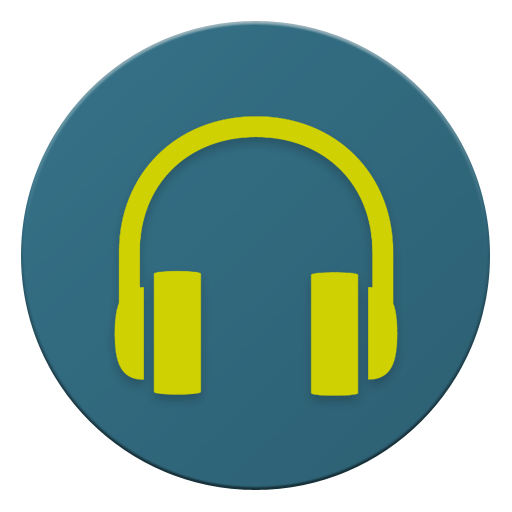
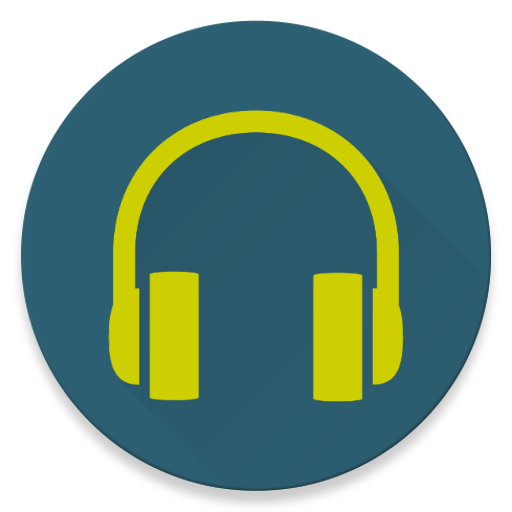
v0.192

diff --git a/androidapp/com.rejh.icerrr.itson/assets/www/index.html b/androidapp/com.rejh.icerrr.itson/assets/www/index.html
@@ -203,7 +203,7 @@
 <!-- Section -->
 <section id="channellist">
 	
-    <div class="actionbar shadow_z2">
+    <div class="actionbar">
     	
         <div class="icon_app  activatablel"><img src="img/icons-48/ic_arrow_back.png" onclick="site.lifecycle.onBackButton();" /></div>
         <div class="title">Stations</div>
@@ -217,7 +217,7 @@
         </div>
     </div>
     
-    <div class="tabbar shadow_z1">
+    <div class="tabbar shadow_z2">
     	<div class="tab activatablel stations active" onclick="site.chlist.ontabclick(this)">
         	<div class="center_table"><div class="center_td">All</div></div>
         </div>
@@ -278,7 +278,7 @@
 				<input class="round2" type="text" name="station_icon" placeholder="http://www.host.com/path-to-icon.png" />
 			</p>
 			
-			<p><img class="station_icon" src="img/icons-48/ic_launcher.png" /></p>
+			<p><img class="station_icon" src="img/icons-80/ic_station_default.png" /></p>
 			
 			<p class="info_tap_icon" style="color:#999;"><em>Note: tap the icon to search for more</em></p>
 		</div>
@@ -300,9 +300,11 @@
         <div class="title">Stations</div>
         
 		<div class="actions">
+			<!--
 			<div class="action save activatablel" onclick="site.chsearch.searchstation();">
 				<img src="img/icons-48/ic_search_green.png" title="Search" />
 			</div>
+			-->
         </div>
     </div>
     
@@ -333,6 +335,8 @@
 		<div class="resultfooter shadow_z1u">
 			<a href='javascript:void(0)' onclick="window.open('http://dirble.com/','_system');">Powered by Dirble</a>
 		</div>
+		
+		<div class="fab shadow_z5" onclick="site.chsearch.searchstation();;"><img src="img/icons-48/ic_search_green.png" /></div>
 	
     </div>
 

diff --git a/androidapp/com.rejh.icerrr.itson/assets/www/js/site.chlist.js b/androidapp/com.rejh.icerrr.itson/assets/www/js/site.chlist.js
@@ -217,7 +217,7 @@ site.chlist.drawResults = function(pagenum,forcerun) {
 		var resulticon = document.createElement("img");
 		resulticon.className = "resulticon";
 		resulticon.addEventListener("error",function(ev){ 
-			ev.target.src = "img/icons-48/ic_launcher.png";
+			ev.target.src = "img/icons-80/ic_station_default.png";
 		});
 		if (site.helpers.shouldDownloadImage(station.station_icon_local,station.station_icon)) {
 			var stationIndex = site.helpers.session.getStationIndexById(station.station_id);
@@ -236,7 +236,7 @@ site.chlist.drawResults = function(pagenum,forcerun) {
 				function(error) {
 					loggr.error(" > Error downloading '"+ station.station_icon +"'",{dontupload:true});
 					console.error(error);
-					resulticon.src = "img/icons-48/ic_launcher.png";
+					resulticon.src = "img/icons-80/ic_station_default.png";
 				}
 			);
 		} else {
@@ -430,7 +430,7 @@ site.chlist.imagesearch = function(station_data,fullSizeImage) {
 			
 			// err
 			loggr.log(" > No image found...");
-			$("#chlist_resultitem_"+ station_data.station_id +" .resulticon").attr("src","img/icons-48/ic_launcher.png");
+			$("#chlist_resultitem_"+ station_data.station_id +" .resulticon").attr("src","img/icons-80/ic_station_default.png");
 			
 		},
 		opts

diff --git a/androidapp/com.rejh.icerrr.itson/assets/www/js/site.chedit.js b/androidapp/com.rejh.icerrr.itson/assets/www/js/site.chedit.js
@@ -79,7 +79,7 @@ site.chedit.init = function(station_id_to_edit, askedAboutStationName, askedAbou
 		$("#editstation input[name='station_name']")[0].value = ""
 		$("#editstation input[name='station_url']")[0].value = ""
 		$("#editstation input[name='station_icon']")[0].value = ""
-		$("#editstation img.station_icon").attr("src","img/icons-48/ic_launcher.png");
+		$("#editstation img.station_icon").attr("src","img/icons-80/ic_station_default.png");
 		$("#editstation img.station_icon").off("click");
 		$("#editstation img.station_icon")[0].onclick = function() {
 			loggr.error(" > chedit.searchicon() (1)",{dontupload:true});
@@ -92,7 +92,7 @@ site.chedit.init = function(station_id_to_edit, askedAboutStationName, askedAbou
 		$("#editstation .action.save").css("display","none");
 		$("#editstation .action.trash").css("display","none");
 		$("#editstation input[name='station_id']")[0].value = "";
-		$("#editstation img.station_icon").attr("src","img/icons-48/ic_launcher.png");
+		$("#editstation img.station_icon").attr("src","img/icons-80/ic_station_default.png");
 		$("#editstation img.station_icon").off("click");
 		$("#editstation img.station_icon")[0].onclick = function() {
 			loggr.error(" > chedit.searchicon() (2)",{dontupload:true});

diff --git a/androidapp/com.rejh.icerrr.itson/assets/www/js/site.home.js b/androidapp/com.rejh.icerrr.itson/assets/www/js/site.home.js
@@ -78,7 +78,7 @@ site.home.init = function() {
 	);
 	$("#home .main .station_image img").on("error",function(evt) {
 		loggr.error(" > Error loading image: "+evt.currentTarget.src,{dontupload:true});
-		evt.currentTarget.src = "img/icons-48/ic_launcher.png";
+		evt.currentTarget.src = "img/icons-80/ic_station_default.png";
 	});
 	
 	// extra ui
@@ -92,7 +92,7 @@ site.home.init = function() {
 	
 	$("#home .main .station_image img").on("error",function(evt) {
 		loggr.warn(" > !onload: "+ evt.originalEvent.target.src);
-		$("#home .main .station_image img").attr("src","img/icons-48/ic_launcher.png");
+		$("#home .main .station_image img").attr("src","img/icons-80/ic_station_default.png");
 	});
 	
 	// extra events
@@ -514,7 +514,7 @@ site.home.handleStationImage = function(src) {
 				function(error) {
 					loggr.error(" > Error downloading '"+ station.station_icon +"'",{dontupload:true});
 					console.error(error);
-					$("#home .main .station_image img").attr("src","img/icons-48/ic_launcher.png");
+					$("#home .main .station_image img").attr("src","img/icons-80/ic_station_default.png");
 				}
 			);
 		} else {

diff --git a/androidapp/com.rejh.icerrr.itson/assets/www/css/default.css b/androidapp/com.rejh.icerrr.itson/assets/www/css/default.css
@@ -43,7 +43,7 @@ body {
 }
 
 a {
-	color:#999;
+	color:#2D6073;
 	text-decoration:none;
 }
 
@@ -160,7 +160,7 @@ section {
 		top:56px; left:0; right:0;
 		width:100%;
 		height:48px;
-		background-color:#616161;
+		background-color:#2D6073;
 		color:rgba(255,255,255,0.87);
 		text-transform:uppercase;
 	}
@@ -172,7 +172,7 @@ section {
 			color:rgba(255,255,255,0.33);
 		}
 		.tab.active {
-			background:rgba(0,0,0,0.25);
+			background:rgba(0,0,0,0.0);
 			color:rgba(255,255,255,0.87);
 		}
 		
@@ -475,7 +475,7 @@ section {
 	
 	.resultitem_spacer {
 		/* for bottom, space for fab */
-		height:72px;
+		height:56px;
 		background:#eee;
 		border:none;
 	}

diff --git a/androidapp/com.rejh.icerrr.itson/assets/www/js/site.chicon.js b/androidapp/com.rejh.icerrr.itson/assets/www/js/site.chicon.js
@@ -96,7 +96,7 @@ site.chicon.init = function(station_id) {
 			var resultitem = document.createElement("div");
 			resultitem.className = "resultitem_chicon shadow_z1 activatablel";
 			resultitem.innerHTML = '<div class="center_table"><div class="center_td">'
-				+ '<img class="resulticon_chicon" src="img/icons-48/ic_launcher.png" />'
+				+ '<img class="resulticon_chicon" src="img/icons-80/ic_station_default.png" />'
 				+ '</div></div>'
 				;
 			

diff --git a/androidapp/com.rejh.icerrr.itson/assets/www/js/site.chsearch.js b/androidapp/com.rejh.icerrr.itson/assets/www/js/site.chsearch.js
@@ -262,7 +262,7 @@ site.chsearch.drawResults = function(pagenum, forceRedraw) {
 		
 		var resulticon = document.createElement("img");
 		resulticon.className = "resulticon";
-		resulticon.src = "img/icons-48/ic_launcher.png";
+		resulticon.src = "img/icons-80/ic_station_default.png";
 		
 		var resultname = document.createElement("div");
 		resultname.className = "resultname";

diff --git a/androidapp/com.rejh.icerrr.itson/assets/www/js/site.config.js b/androidapp/com.rejh.icerrr.itson/assets/www/js/site.config.js
@@ -14,7 +14,7 @@ site.cfg = {};
 // ---> Important stuff
 
 // App
-site.cfg.app_version = 0.191; // TODO: Note: app bump causes install to run at launch
+site.cfg.app_version = 0.192; // TODO: Note: app bump causes install to run at launch
 
 // Urls
 // Note: url paths should end with / if folder || TODO: check this..

diff --git a/androidapp/com.rejh.icerrr.itson/src/com/rejh/cordova/mediastreamer/MediaStreamerService.java b/androidapp/com.rejh.icerrr.itson/src/com/rejh/cordova/mediastreamer/MediaStreamerService.java
@@ -364,7 +364,7 @@ public class MediaStreamerService extends Service {
         metadataEditor.clear();
         metadataEditor.putString(MediaMetadataRetriever.METADATA_KEY_ARTIST, station_name);
         metadataEditor.putString(MediaMetadataRetriever.METADATA_KEY_TITLE, "Now playing: ...");
-        metadataEditor.putBitmap(100, getIcon("wear_album_art"));
+        metadataEditor.putBitmap(100, getIcon("web_hi_res_512_002"));
         metadataEditor.apply();
         
         // Handle Wifi
@@ -755,7 +755,7 @@ public class MediaStreamerService extends Service {
 					} catch(JSONException e) {
 						Log.w(APPTAG," > JSONException!",e);
 						Log.w(APPTAG," > Okay okay, use default icon");
-						metadataEditor.putBitmap(100, getIcon("wear_album_art"));
+						metadataEditor.putBitmap(100, getIcon("web_hi_res_512_002"));
 					}
 					
 					// Apply metadata
